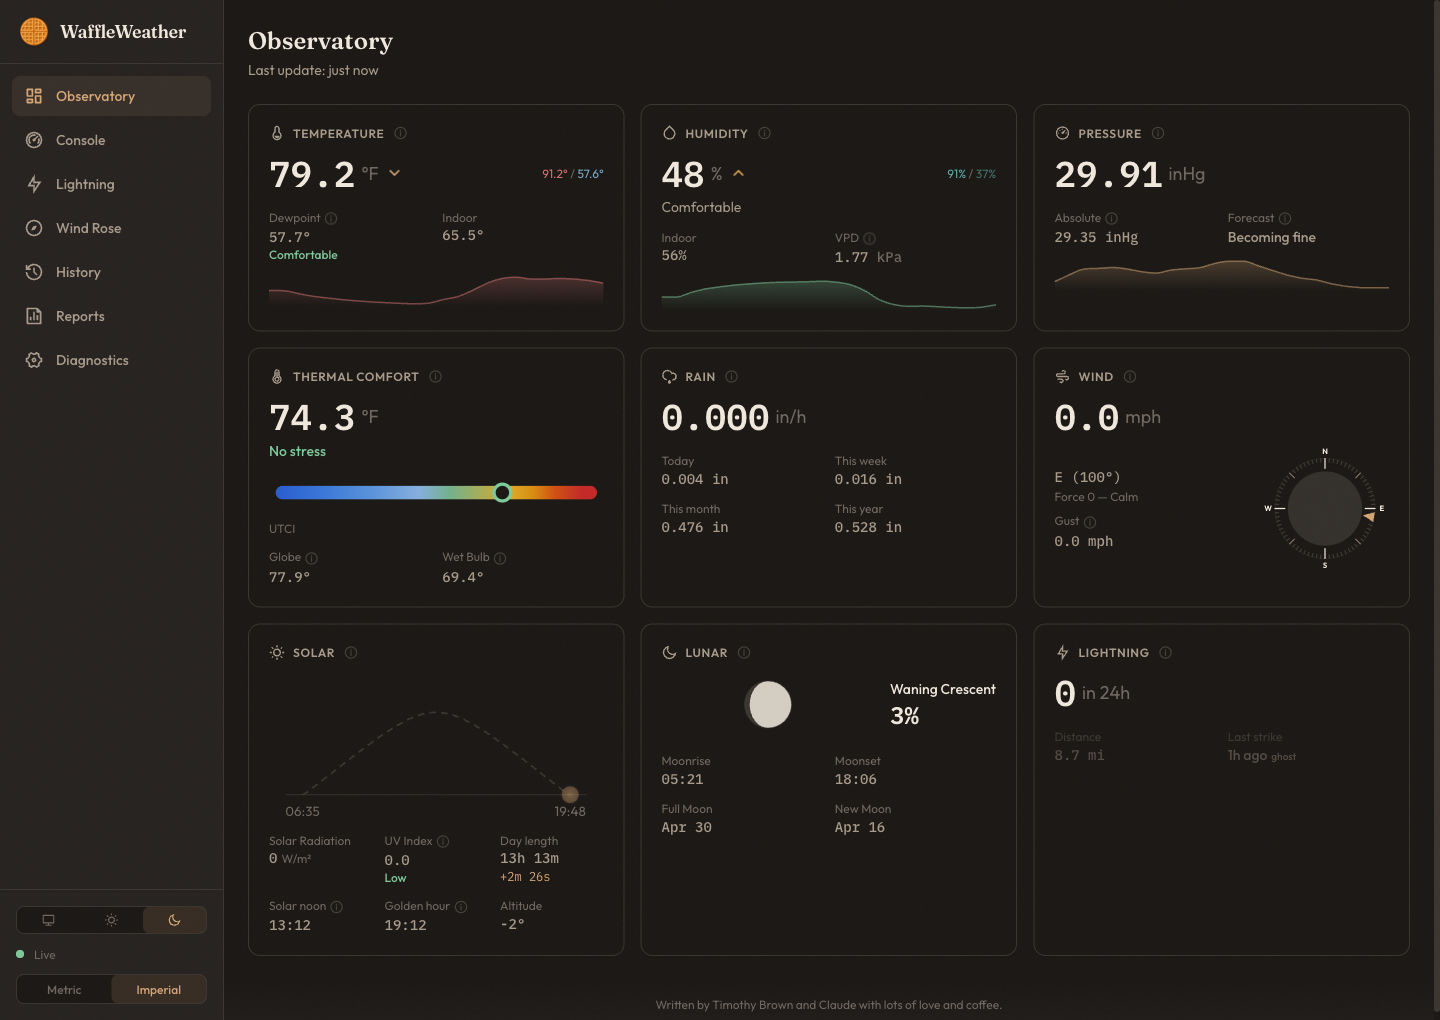
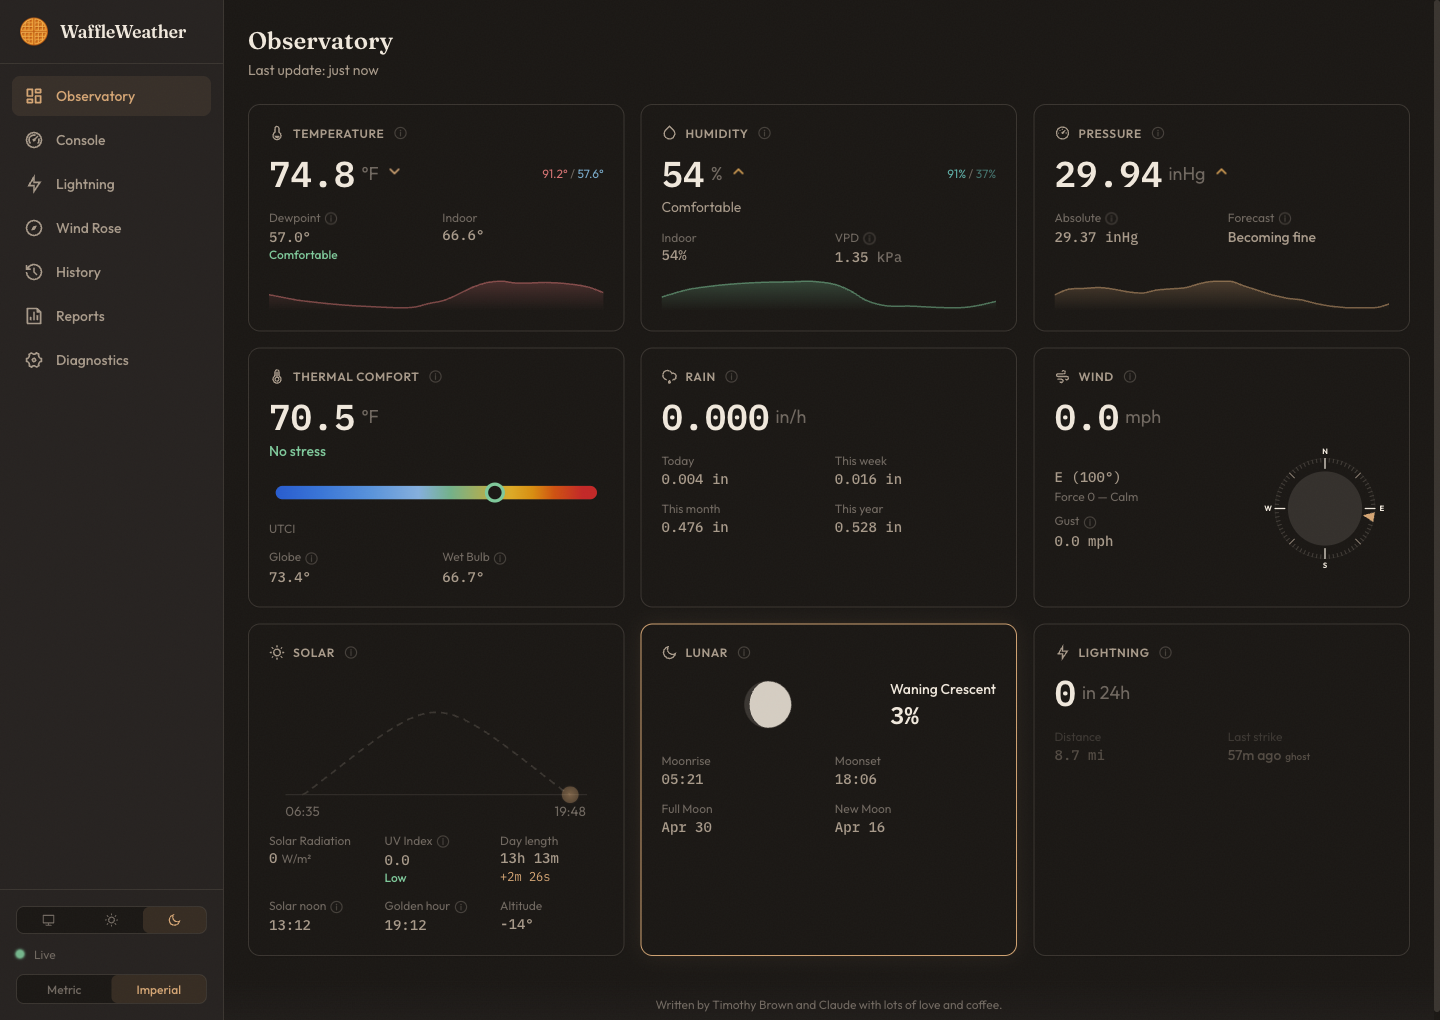
fix: align sparklines to bottom of grid-equalized cards
WeatherCard now uses flex-col so sparkline wrappers with mt-auto pin to
the card bottom regardless of varying content height above them.

diff --git a/frontend/src/components/dashboard/TemperatureCard.tsx b/frontend/src/components/dashboard/TemperatureCard.tsx
@@ -61,7 +61,7 @@ export default function TemperatureCard({ data, trend, dayMin, dayMax, sparkline
         </div>
       </div>
       {sparkline && sparkline.length >= 2 && (
-        <div className="mt-3">
+        <div className="mt-auto pt-3">
           <Sparkline
             data={sparkline}
             color="var(--color-danger)"

diff --git a/frontend/src/components/dashboard/HumidityCard.tsx b/frontend/src/components/dashboard/HumidityCard.tsx
@@ -54,7 +54,7 @@ export default function HumidityCard({ data, trend, dayMin, dayMax, sparkline }:
         )}
       </div>
       {sparkline && sparkline.length >= 2 && (
-        <div className="mt-3">
+        <div className="mt-auto pt-3">
           <Sparkline
             data={sparkline}
             color="var(--color-success)"

diff --git a/frontend/src/components/dashboard/PressureCard.tsx b/frontend/src/components/dashboard/PressureCard.tsx
@@ -43,7 +43,7 @@ export default function PressureCard({ data, trend, sparkline }: { data: Observa
         )}
       </div>
       {sparkline && sparkline.length >= 2 && (
-        <div className="mt-3">
+        <div className="mt-auto pt-3">
           <Sparkline
             data={sparkline}
             color="var(--color-primary)"

diff --git a/frontend/src/components/dashboard/WeatherCard.tsx b/frontend/src/components/dashboard/WeatherCard.tsx
@@ -22,7 +22,7 @@ export default function WeatherCard({
   return (
     <div
       className={cn(
-        "weather-card rounded-xl p-5 shadow-sm",
+        "weather-card flex flex-col rounded-xl p-5 shadow-sm",
         className,
       )}
     >
